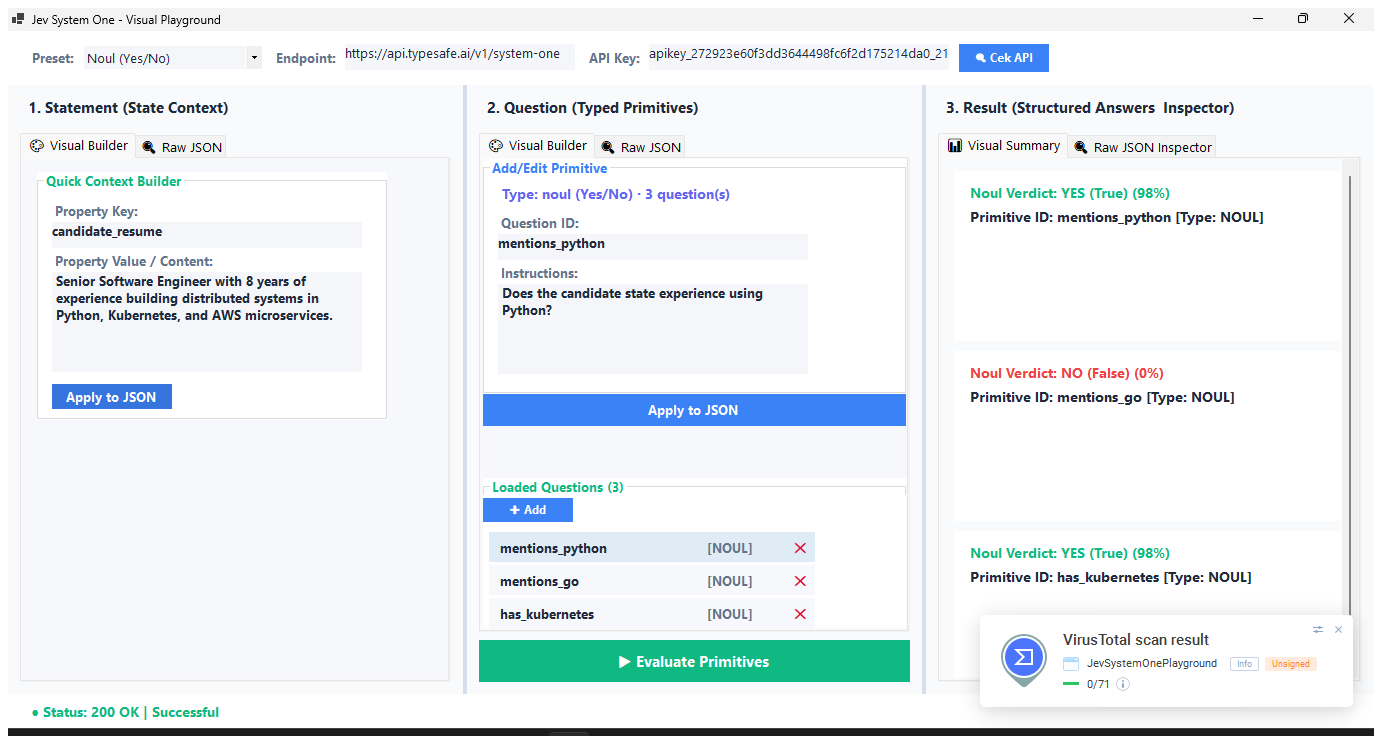
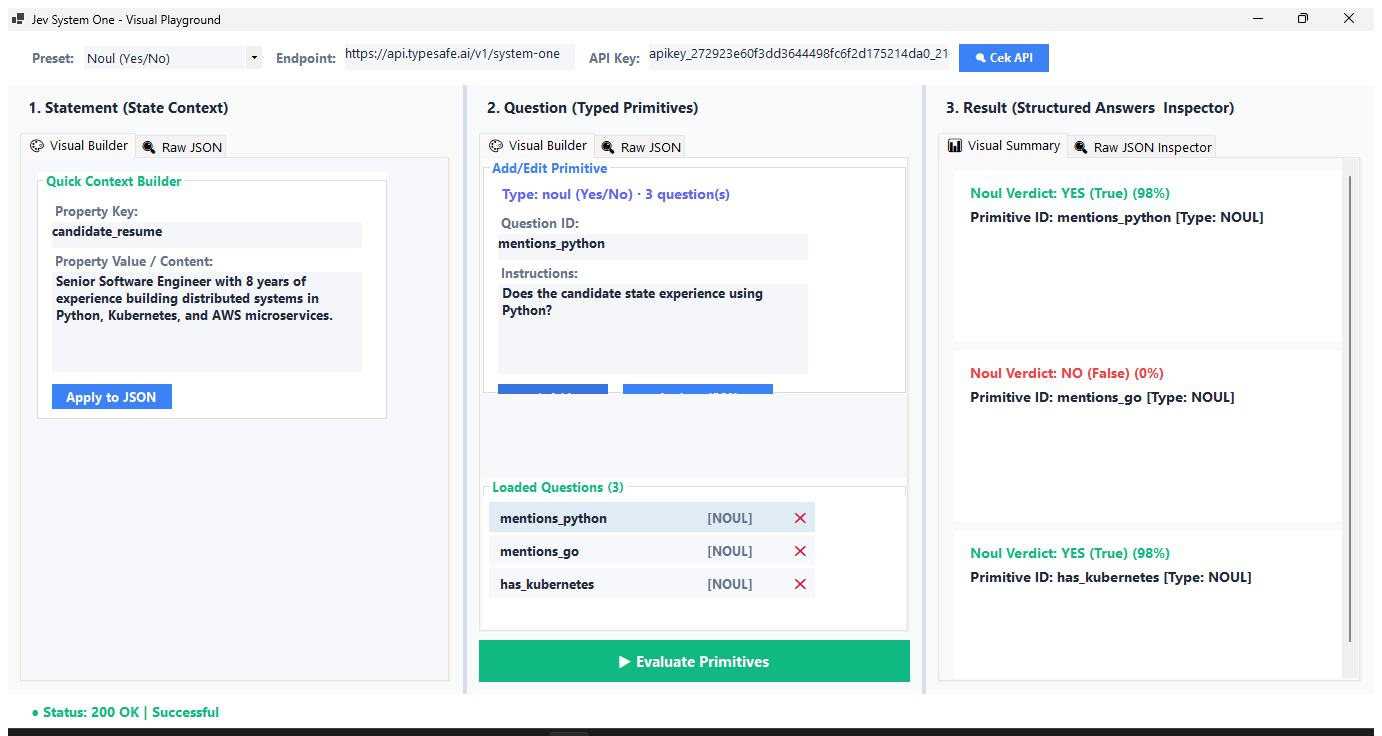
Revert to original design: Add + Apply to JSON inline inside Add/Edit Primitive group (Location-based, bottom row)

diff --git a/Program.cs b/Program.cs
@@ -312,10 +312,10 @@ public class JevPlaygroundForm : Form
         lblQcrit = new Label { Text = "Options (comma separated):", Location = new Point(15, 225), AutoSize = true, ForeColor = ColMuted, Visible = false };
         txtQCriterias = new TextBox { Text = "Python, Go, Java", Location = new Point(15, 245), Width = 310, BackColor = ColInput, ForeColor = ColText, BorderStyle = BorderStyle.None, AutoSize = false, Height = 26, Visible = false };
 
-        btnApplyQ = new Button { Text = "➕ Add", Dock = DockStyle.Left, Width = 90, Height = 24, BackColor = ColBlue, ForeColor = Color.White, FlatStyle = FlatStyle.Flat, Cursor = Cursors.Hand, Font = new Font("Segoe UI", 9F, FontStyle.Bold) };
+        btnApplyQ = new Button { Text = "➕ Add", Location = new Point(15, 225), Width = 110, Height = 28, BackColor = ColBlue, ForeColor = Color.White, FlatStyle = FlatStyle.Flat, Cursor = Cursors.Hand, Font = new Font("Segoe UI", 9F, FontStyle.Bold) };
         btnApplyQ.FlatAppearance.BorderSize = 0;
 
-        btnApplyJson = new Button { Text = "Apply to JSON", Dock = DockStyle.Top, Height = 32, Margin = new Padding(7, 3, 7, 3), BackColor = ColBlue, ForeColor = Color.White, FlatStyle = FlatStyle.Flat, Cursor = Cursors.Hand, Font = new Font("Segoe UI", 9.5F, FontStyle.Bold) };
+        btnApplyJson = new Button { Text = "Apply to JSON", Location = new Point(140, 225), Width = 150, Height = 28, BackColor = ColBlue, ForeColor = Color.White, FlatStyle = FlatStyle.Flat, Cursor = Cursors.Hand, Font = new Font("Segoe UI", 9F, FontStyle.Bold) };
         btnApplyJson.FlatAppearance.BorderSize = 0;
         btnApplyJson.Click += (s, e) => {
             try
@@ -416,16 +416,12 @@ public class JevPlaygroundForm : Form
             }
         };
 
-        gbQ.Controls.AddRange(new Control[] { lblQTypeInfo, lblQi, txtQId, lblQins, txtQInstructions, lblQcrit, txtQCriterias });
-        tabQGui.Controls.Add(btnApplyJson);
+        gbQ.Controls.AddRange(new Control[] { lblQTypeInfo, lblQi, txtQId, lblQins, txtQInstructions, lblQcrit, txtQCriterias, btnApplyQ, btnApplyJson });
         tabQGui.Controls.Add(gbQ);
 
         gbQList = new GroupBox { Text = "Loaded Questions", Width = 350, Height = 150, Dock = DockStyle.Bottom, Font = new Font("Segoe UI", 9.5F, FontStyle.Bold), BackColor = ColCard, ForeColor = ColEmerald, Padding = new Padding(0) };
-        var pnlAddBar = new Panel { Dock = DockStyle.Top, Height = 30, BackColor = ColCard, Padding = new Padding(0, 3, 3, 3) };
-        pnlAddBar.Controls.Add(btnApplyQ);
         pnlQList = new FlowLayoutPanel { Dock = DockStyle.Fill, AutoScroll = true, FlowDirection = FlowDirection.TopDown, WrapContents = false, Padding = new Padding(6, 4, 6, 6), BackColor = ColCard };
         gbQList.Controls.Add(pnlQList);
-        gbQList.Controls.Add(pnlAddBar);
         tabQGui.Controls.Add(gbQList);
 
         TabPage tabQJson = new TabPage("🔍 Raw JSON") { BackColor = ColCardAlt };
@@ -533,6 +529,8 @@ public class JevPlaygroundForm : Form
         lblQcrit.Visible = hasCriteria;
         txtQCriterias.Visible = hasCriteria;
         gbQ.Height = hasCriteria ? 292 : 235;
+        btnApplyQ.Location = new Point(15, hasCriteria ? 278 : 225);
+        btnApplyJson.Location = new Point(140, hasCriteria ? 278 : 225);
     }
 
     private void UpdateQCount()
